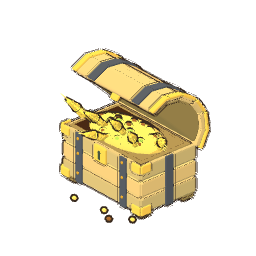
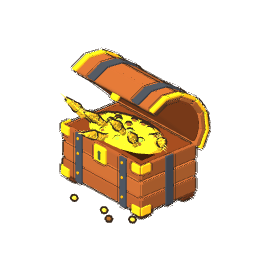
Ferme : coffre de recompenses plus vif (bois chataigne, fer sombre, or vif, ombres franches), rayons d'or et halo dore a l'ouverture

Changed region(s): [[0.2188, 0.1875, 0.8438, 0.875], [0.4062, 0.8125, 0.4375, 0.8438], [0.2812, 0.75, 0.3125, 0.7812]]

diff --git a/site/ferme/index.html b/site/ferme/index.html
@@ -585,8 +585,10 @@ input, textarea { -webkit-user-select: text; user-select: text; }
 .scene-coffre.ouvert .c-ferme { opacity: 0; animation: none; }
 .scene-coffre.ouvert .c-ouvert { opacity: 1; animation: coffre-jaillit .55s cubic-bezier(.2, 1.7, .4, 1) both; }
 .scene-coffre .rayons { position: absolute; left: 50%; top: 50%; width: 290px; height: 290px; margin: -145px 0 0 -145px; border-radius: 50%; opacity: 0; transition: opacity .4s;
-  background: repeating-conic-gradient(rgba(255, 207, 92, .6) 0 9deg, rgba(255, 207, 92, 0) 9deg 22deg); -webkit-mask: radial-gradient(circle closest-side, #000 30%, transparent 100%); mask: radial-gradient(circle closest-side, #000 30%, transparent 100%); }
+  background: repeating-conic-gradient(rgba(255, 168, 30, .85) 0 8deg, rgba(255, 214, 90, .35) 8deg 11deg, rgba(255, 200, 80, 0) 11deg 22deg); /* (15/10/2026, « un peu pale » : des rayons d'or plus francs) */ -webkit-mask: radial-gradient(circle closest-side, #000 30%, transparent 100%); mask: radial-gradient(circle closest-side, #000 30%, transparent 100%); }
 .scene-coffre.ouvert .rayons { opacity: 1; animation: rayons-tournent 9s linear infinite; }
+.scene-coffre::before { content: ''; position: absolute; left: 50%; top: 50%; width: 250px; height: 250px; margin: -125px 0 0 -125px; border-radius: 50%; opacity: 0; transition: opacity .4s; background: radial-gradient(circle, rgba(255, 186, 50, .6) 0, rgba(255, 150, 30, .28) 42%, rgba(255, 150, 30, 0) 70%); }
+.scene-coffre.ouvert::before { opacity: 1; } /* un halo d'or chaud derriere le coffre ouvert */
 .scene-coffre .eclair { position: absolute; left: 50%; top: 50%; width: 280px; height: 280px; margin: -140px 0 0 -140px; border-radius: 50%; pointer-events: none; opacity: 0; background: radial-gradient(circle, #fff 0, rgba(255, 255, 255, .95) 30%, rgba(255, 255, 255, 0) 70%); }
 .scene-coffre.flash .eclair { animation: coffre-eclair .5s ease-out both; }
 @keyframes coffre-arrive { from { transform: translate(-50%, -35%) scale(.4); opacity: 0; } to { transform: translate(-50%, -50%) scale(1); opacity: 1; } }
@@ -2441,7 +2443,7 @@ const chargeur = new T.GLTFLoader();
 const draco = new T.DRACOLoader(); draco.setDecoderPath('https://cdn.jsdelivr.net/npm/three@0.128.0/examples/js/libs/draco/gltf/'); chargeur.setDRACOLoader(draco);
 const chargerGlb = (url) => new Promise((ok, ko) => chargeur.load(url, (gl) => ok(gl.scene), undefined, ko));
 const MODELES = {};
-const VERSION_MODELES = '20261016k'; /* a changer a chaque nouvel export des modeles : sinon le navigateur garde les anciens en cache */
+const VERSION_MODELES = '20261016l'; /* a changer a chaque nouvel export des modeles : sinon le navigateur garde les anciens en cache */
 /* un modele tire d'une planche : on le recentre, on le remet droit, on l'ajuste a la taille voulue (pied au sol, centre en 0) */
 /* comme gabarit, mais a une echelle donnee et centre sur un point donne (non mis a l'echelle) : les 5 niveaux d'un batiment gardent la meme echelle,
    le niveau 1 a la taille d'avant et les suivants grandissent vraiment */
